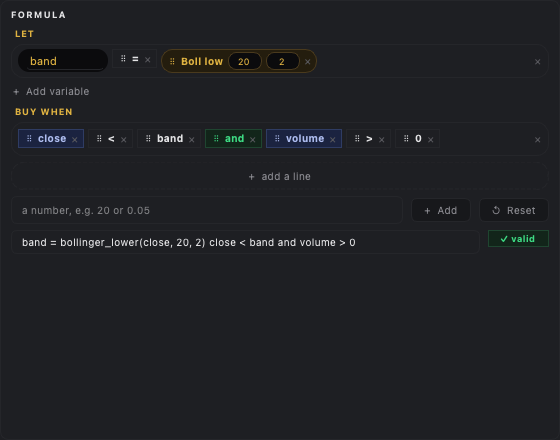
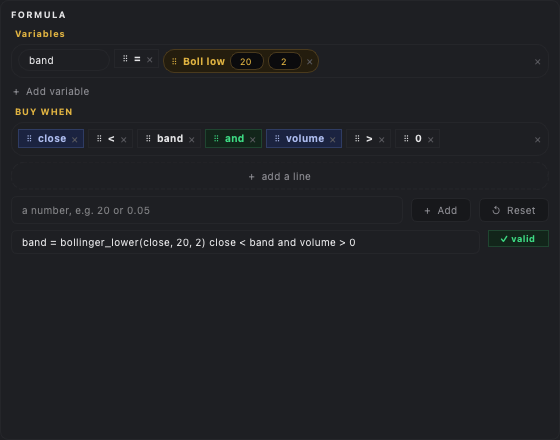
Make the variable name a chip you type in, and call the section Variables
Following EntryFormula.dc.html: the name of a series is a chip like the
tokens around it, just editable (a text cursor), rather than an underlined
field, and the subsection reads Variables.

Changed region(s): [[0.2125, 0.1182, 0.5768, 0.1477], [0.0304, 0.1182, 0.1214, 0.1477], [0.0304, 0.0591, 0.1214, 0.0886]]

diff --git a/EntryFormula.dc.html b/EntryFormula.dc.html
@@ -1,0 +1,59 @@
+<!doctype html>
+<html lang="fr"><head><meta charset="utf-8"><title>Entry rules</title><script src="./vendor/react.js"></script>
+<script src="./vendor/react-dom.js"></script>
+<script src="./support.js"></script></head>
+<body><x-dc><helmet><link href="https://fonts.googleapis.com/css2?family=Inter:wght@400;500;600&amp;family=JetBrains+Mono:wght@400;600&amp;display=swap" rel="stylesheet"><style>body{margin:0}
+.in{background:#1d1e23;border:1px solid #2a2b31;border-radius:6px;color:#e8e8ea;padding:8px 10px;font:400 13px Inter,sans-serif;width:100%;box-sizing:border-box}
+.m{font-family:"JetBrains Mono",monospace}
+.card{background:#17181c;border:1px solid #25262b;border-radius:10px;padding:14px 16px;box-sizing:border-box}
+.h{font:600 11px/1 Inter,sans-serif;letter-spacing:.18em;color:#e2e2e5;text-transform:uppercase;margin:0 0 12px}
+.lbl{font:400 11px Inter,sans-serif;color:#8b8d95;margin-bottom:5px;display:block}
+.k{font:400 11px Inter,sans-serif;color:#8b8d95}
+.btn{background:#231f10;border:1px solid #4a3f1a;color:#f2c94c;border-radius:6px;padding:9px 14px;font:500 13px Inter,sans-serif;cursor:pointer}
+.ghost{background:#1d1e23;border:1px solid #2a2b31;color:#c9cad0;border-radius:6px;padding:8px 12px;font:500 13px Inter,sans-serif;cursor:pointer}
+.tab{background:#1d1e23;border:1px solid #2a2b31;color:#8b8d95;border-radius:6px;padding:7px 0;font:500 12px Inter,sans-serif;flex:1;cursor:pointer}
+.on{background:#231f10;border-color:#4a3f1a;color:#f2c94c}
+.chip{display:inline-flex;gap:6px;align-items:center;padding:5px 9px;border-radius:6px;border:1px solid #2a2b31;background:#1d1e23;font:500 12px "JetBrains Mono",monospace;color:#e8e8ea;cursor:grab;white-space:nowrap}
+.c1{border-color:#4a3f1a;color:#f2c94c;background:#1d1b12}
+.c2{border-color:#33366b;color:#a3a8ff;background:#181a30}
+.c4{border-color:#1f4a33;color:#5fe39a;background:#13211a}
+.cd{display:grid;grid-template-columns:1.2fr 64px 1.2fr 1.4fr 30px;gap:8px;align-items:center}
+.grp{border:1px dashed #3a3b42;border-radius:8px;padding:12px;background:#141519;display:flex;flex-direction:column;gap:8px}
+.pal{display:flex;gap:5px;flex-wrap:wrap;margin-bottom:12px}
+.line{display:flex;gap:6px;flex-wrap:wrap;align-items:center;padding:10px;border:1px dashed #3a3b42;border-radius:8px;background:#141519}
+.u{font:400 12px "JetBrains Mono",monospace;color:#8b8d95}
+.row{display:flex;justify-content:space-between;font:400 12px "JetBrains Mono",monospace;padding:5px 0;border-top:1px solid #25262b}
+.code div{display:flex;gap:14px;font:400 13px/22px "JetBrains Mono",monospace;color:#d6d7db;white-space:pre}
+.code i{font-style:normal;color:#6b6d75;width:18px;text-align:right}
+.kw{color:#f2c94c}.nb{color:#a3a8ff}.fn{color:#5fe39a}</style></helmet>
+<div style="width:900px;height:680px;box-sizing:border-box;background:#131417;border:1px solid #2c2d33;border-radius:12px;overflow:hidden;color:#e8e8ea;font-family:Inter,sans-serif;display:flex;flex-direction:column">
+<div style="height:40px;background:#3a3938;display:flex;align-items:center;padding:0 14px;position:relative;flex:none"><span style="width:12px;height:12px;border-radius:50%;background:#ff5f57;margin-right:8px"></span><span style="width:12px;height:12px;border-radius:50%;background:#febc2e;margin-right:8px"></span><span style="width:12px;height:12px;border-radius:50%;background:#28c840"></span><span style="position:absolute;left:0;right:0;text-align:center;font:600 14px Inter,sans-serif">lalala · entry rules · Formula</span></div>
+<div style="flex:1;padding:16px;display:flex;flex-direction:column;gap:14px;min-height:0">
+<div style="display:flex;gap:6px;width:300px"><button class="tab">Rules</button><button class="tab on">Formula</button><button class="tab">Code</button></div>
+<div style="display:grid;grid-template-columns:210px 1fr 230px;gap:14px;flex:1;min-height:0">
+<div class="card"><h2 class="h">Blocs</h2>
+<label class="lbl" for="sb" style="display:none">Chercher un bloc</label><input id="sb" class="in" placeholder="Chercher un bloc…" style="margin-bottom:12px">
+<span class="k">Données</span><div class="pal" style="margin-top:6px"><span class="chip c2">price</span><span class="chip c2">model_p</span><span class="chip c2">volume</span><span class="chip c2">spread</span><span class="chip c2">liquidity</span><span class="chip c2">days_left</span></div>
+<span class="k">Indicateurs</span><div class="pal" style="margin-top:6px"><span class="chip c1">SMA</span><span class="chip c1">EMA</span><span class="chip c1">RSI</span><span class="chip c1">σ</span><span class="chip c1">zscore</span><span class="chip c1">Δ</span><span class="chip c1">max</span><span class="chip c1">min</span></div>
+<span class="k">Maths</span><div class="pal" style="margin-top:6px"><span class="chip">+</span><span class="chip">−</span><span class="chip">×</span><span class="chip">÷</span><span class="chip">( )</span><span class="chip">abs</span><span class="chip">log</span><span class="chip">&gt;</span><span class="chip">&lt;</span><span class="chip">≥</span><span class="chip">≤</span></div>
+<span class="k">Logique</span><div class="pal" style="margin-top:6px"><span class="chip c4">AND</span><span class="chip c4">OR</span><span class="chip c4">NOT</span></div></div>
+<div class="card" style="display:flex;flex-direction:column;gap:10px"><h2 class="h" style="margin:0">Formule</h2>
+<span class="k">Variables</span>
+<div class="line"><span class="chip" style="cursor:text">z</span><span class="u">=</span><span class="chip c1">zscore</span><span class="u">(</span><span class="chip c2">price</span><span class="u">,</span><span class="chip">20</span><span class="u">)</span></div>
+<div class="line"><span class="chip" style="cursor:text">edge</span><span class="u">=</span><span class="chip c2">model_p</span><span class="chip">−</span><span class="chip c2">price</span></div>
+<span class="k" style="margin-top:4px">Condition d'entrée</span>
+<div class="line"><span class="m" style="font-size:11px;color:#f2c94c">BUY YES IF</span><span class="chip">z</span><span class="chip">&lt;</span><span class="chip">−2</span><span class="chip c4">AND</span><span class="chip">edge</span><span class="chip">&gt;</span><span class="chip">0.08</span><span class="u" style="border:1px dashed #4a3f1a;border-radius:6px;padding:5px 12px">+ glisser ici</span></div>
+<div class="m" style="margin-top:auto;padding:10px 12px;background:#101114;border-radius:6px;font-size:12px;color:#c9cad0">z &lt; −2 AND edge &gt; 0.08</div>
+<div style="font-size:12px;display:flex;flex-direction:column;gap:4px"><span style="color:#3ddc84">✓ Syntaxe valide · 64 signaux</span><span style="color:#f2c94c">⚠ spread : pas d'historique en backtest</span></div></div>
+<div class="card"><h2 class="h">Bloc sélectionné</h2>
+<span class="chip c1" style="margin-bottom:12px">zscore</span>
+<label class="lbl" for="src">Source</label><select id="src" class="in" style="margin-bottom:10px"><option>price</option></select>
+<label class="lbl" for="wn">Fenêtre (barres)</label><input id="wn" class="in m" value="20" style="text-align:right;margin-bottom:10px">
+<label class="lbl" for="sh">Décalage</label><input id="sh" class="in m" value="0" style="text-align:right;margin-bottom:16px">
+<h2 class="h">Valeurs en direct</h2>
+<div class="row"><span>price</span><span>0.41</span></div><div class="row"><span>z</span><span>−2.31</span></div><div class="row"><span>edge</span><span>0.09</span></div><div class="row"><span>résultat</span><span style="color:#3ddc84">TRUE</span></div></div></div>
+<div style="display:flex;justify-content:space-between;align-items:center;margin-top:auto"><span class="k">Odds reversion · brouillon non enregistré</span><div style="display:flex;gap:10px"><button class="ghost">Cancel</button><button class="btn">Apply to strategy</button></div></div></div></div>
+</x-dc>
+<script type="text/x-dc" data-dc-script data-props='{"$preview":{"width":900,"height":680}}'>
+class Component extends DCLogic { renderVals() { return {}; } }
+</script></body></html>

diff --git a/src/lalala/theme.py b/src/lalala/theme.py
@@ -172,6 +172,11 @@ QLabel#blockLabel {{
 #paletteBlock[group="maths"] QLabel, #formulaChip[group="maths"] QLabel {{
     color: {TEXT};
 }}
+/* A variable's name: a chip like any other, but you type in it. */
+#formulaChip[group="name"] {{
+    background-color: {PANEL_ALT};
+    border: 1px solid {BORDER};
+}}
 #formulaChip[slot="true"] {{
     background-color: {CANVAS};
     border: 1px dashed {ACCENT_DIM};
@@ -684,14 +689,10 @@ QPushButton#addCell:hover {{
 QLineEdit#chipNameEdit {{
     background-color: transparent;
     border: none;
-    border-bottom: 1px solid {BORDER};
-    color: {ACCENT};
+    color: {TEXT};
     font-family: "JetBrains Mono", monospace;
-    font-size: 11px;
-    padding: 1px 2px;
-}}
-QLineEdit#chipNameEdit:focus {{
-    border-bottom-color: {ACCENT};
+    font-size: 10px;
+    padding: 0;
 }}
 #conditionPreview {{
     background-color: #101114;

diff --git a/tests/test_formula_builder.py b/tests/test_formula_builder.py
@@ -380,8 +380,8 @@ def test_add_variable_gives_a_name_field(
 def test_the_lines_sit_under_let_and_buy_when(
     app: QApplication, builder: FormulaBuilder
 ) -> None:
-    # The LET subsection is always shown, with its + Add variable.
-    assert builder.variables_heading.text() == "LET"
+    # The Variables subsection is always shown, with its + Add variable.
+    assert builder.variables_heading.text() == "Variables"
     assert builder.variables_heading.objectName() == "formulaSection"
     assert builder.variables_heading.isHidden() is False
     assert builder.condition_heading.text() == "BUY WHEN"

diff --git a/src/lalala/formula_builder.py b/src/lalala/formula_builder.py
@@ -1048,7 +1048,7 @@ class FormulaBuilder(QWidget):
         # The named series sit under LET, which is always shown with its
         # `+ add variable`; the condition sits under BUY WHEN (EXIT WHEN on
         # the exit side).
-        self.variables_heading = QLabel("LET", box)
+        self.variables_heading = QLabel("Variables", box)
         self.variables_heading.setObjectName("formulaSection")
         self.condition_heading = QLabel(self.condition_label, box)
         self.condition_heading.setObjectName("formulaCondition")

diff --git a/README.md b/README.md
@@ -450,11 +450,12 @@ The **Formula** takes the slack in the middle: the lines sit directly on the
 card — no scrollbox of their own, so all of them show at once and the page
 around the builder moves if a long rule needs more room — and the formula as
 text is one small read-only line that scrolls sideways. The lines are grouped
-into subsections: named series sit under **`LET`**, which is always shown with
-its **`+ Add variable`** button — that adds a named line above the condition.
-That line starts with a small **name field**, the one token you type by hand,
-then `=`, then an empty slot to drop the series into. The condition sits under
-**`BUY WHEN`** on the entry side and **`EXIT WHEN`** on the exit side. The **Selected block** is
+into subsections: named series sit under **`Variables`**, which is always shown
+with its **`+ Add variable`** button — that adds a named line above the
+condition. That line starts with a small **name field**, the one token you type
+by hand, styled like the chips around it, then `=`, then an empty slot to drop
+the series into. The condition sits under **`BUY WHEN`** on the entry side and
+**`EXIT WHEN`** on the exit side. The **Selected block** is
 the right rail (a little under 250 px), pushed against the edge and scrolling
 in place: its name, source and live values stay readable in a short tile.
 Clicking a chip selects it: the card shows its name, its source and its window,
